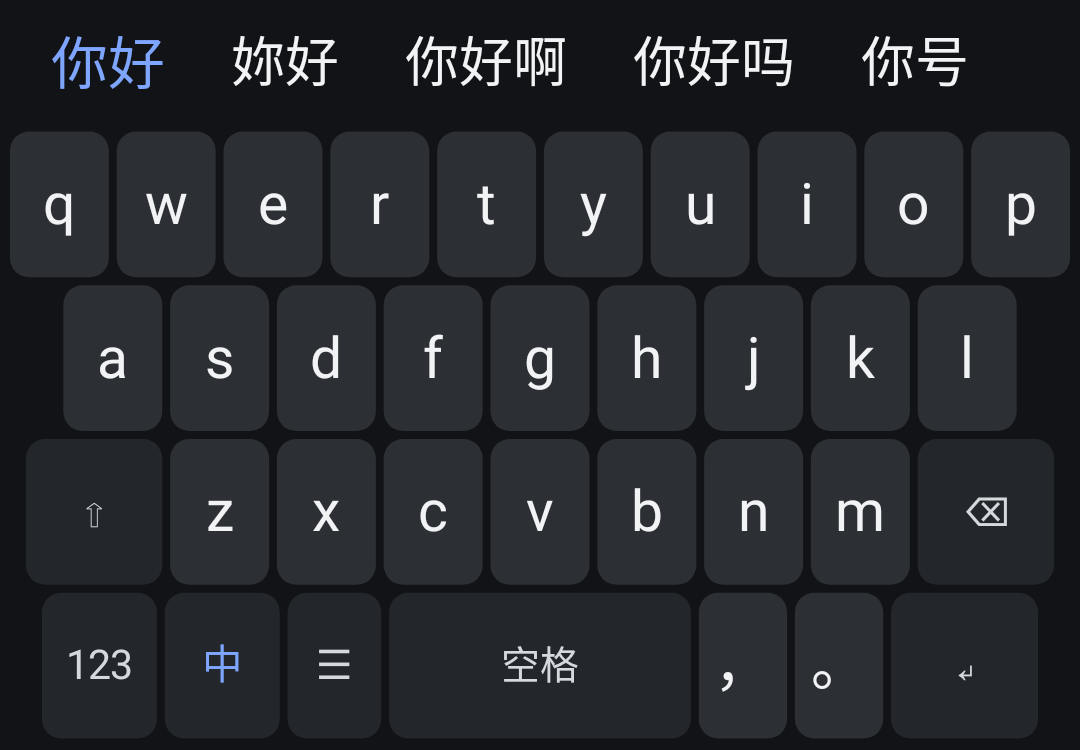
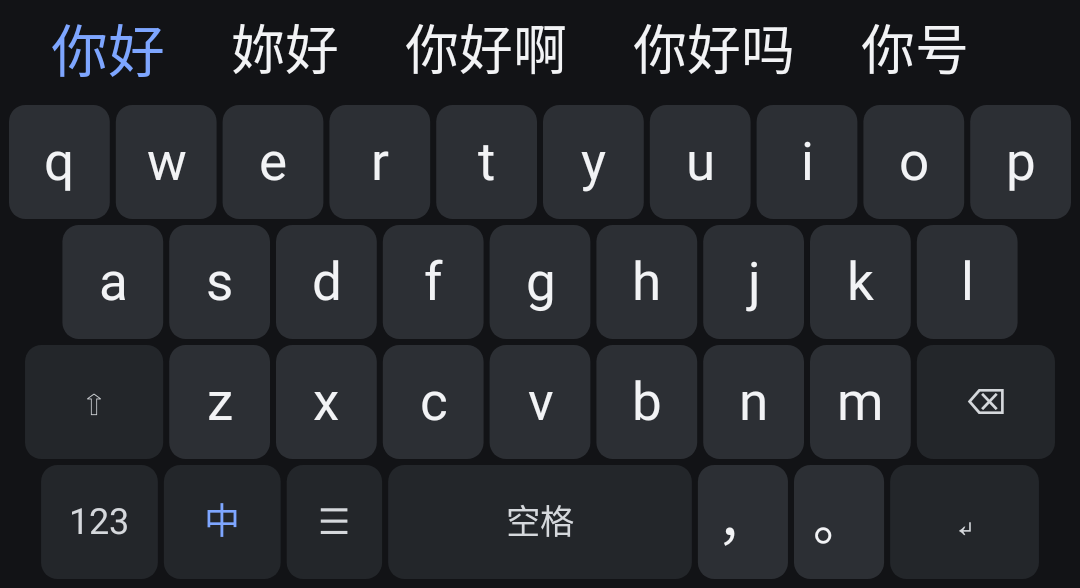
fix: inset-aware compact layout, no clipped bottom row (2.1)
Default height 232→196 dp, candidate strip 40→32 dp, tighter gaps and
glyphs, bottom row padded by the navigation-bar inset, height clamped to
the window and to 45% of the screen.

diff --git a/app/src/main/java/com/example/chinesecompactkeyboard/input/ChineseKeyboardService.kt b/app/src/main/java/com/example/chinesecompactkeyboard/input/ChineseKeyboardService.kt
@@ -11,6 +11,7 @@ import android.os.Looper
 import android.view.KeyEvent
 import android.view.View
 import android.view.View.MeasureSpec
+import android.view.WindowInsets
 import android.view.inputmethod.EditorInfo
 import android.view.inputmethod.InputConnection
 import android.widget.LinearLayout
@@ -125,7 +126,7 @@ class ChineseKeyboardService : InputMethodService(),
         }
         root!!.addView(
             candidateBar,
-            LinearLayout.LayoutParams(LinearLayout.LayoutParams.MATCH_PARENT, dp(40f))
+            LinearLayout.LayoutParams(LinearLayout.LayoutParams.MATCH_PARENT, dp(CANDIDATE_BAR_DP))
         )
 
         keyboardView = KeyboardView(this).apply {
@@ -149,6 +150,11 @@ class ChineseKeyboardService : InputMethodService(),
 
     private fun dp(value: Float): Int = (value * resources.displayMetrics.density).toInt()
 
+    private companion object {
+        /** Candidate strip height; kept tight so the keyboard stays compact. */
+        const val CANDIDATE_BAR_DP = 32f
+    }
+
     /**
      * The input view always measures itself at exactly the height chosen in
      * settings, whatever measure spec the window manager hands down. Without
@@ -156,8 +162,33 @@ class ChineseKeyboardService : InputMethodService(),
      * measure the IME with an unspecified spec.
      */
     private inner class ImeRoot(context: Context) : LinearLayout(context) {
+
+        init {
+            if (Build.VERSION.SDK_INT >= Build.VERSION_CODES.R) {
+                setOnApplyWindowInsetsListener { view, insets ->
+                    // Gesture navigation draws over the IME window on many devices;
+                    // pad the bottom so the last key row is never clipped.
+                    val bars = insets.getInsets(
+                        WindowInsets.Type.navigationBars() or WindowInsets.Type.systemGestures()
+                    )
+                    if (view.paddingBottom != bars.bottom) {
+                        view.setPadding(0, 0, 0, bars.bottom)
+                        view.requestLayout()
+                    }
+                    insets
+                }
+            }
+        }
+
         override fun onMeasure(widthMeasureSpec: Int, heightMeasureSpec: Int) {
-            val height = dp(prefs.keyboardHeightDp.toFloat())
+            val mode = MeasureSpec.getMode(heightMeasureSpec)
+            val available = MeasureSpec.getSize(heightMeasureSpec)
+            val screenCap = (resources.displayMetrics.heightPixels * 0.45f).toInt()
+            var height = dp(prefs.keyboardHeightDp.toFloat())
+            height = minOf(height, screenCap)
+            if (mode != MeasureSpec.UNSPECIFIED && available > 0) {
+                height = minOf(height, available)
+            }
             super.onMeasure(
                 widthMeasureSpec,
                 MeasureSpec.makeMeasureSpec(height, MeasureSpec.EXACTLY)
@@ -170,8 +201,8 @@ class ChineseKeyboardService : InputMethodService(),
         r.requestLayout()
         candidateBar?.visibility = if (prefs.candidateBarVisible) View.VISIBLE else View.GONE
         val barParams = candidateBar?.layoutParams
-        if (barParams != null && barParams.height != dp(40f)) {
-            barParams.height = dp(40f)
+        if (barParams != null && barParams.height != dp(CANDIDATE_BAR_DP)) {
+            barParams.height = dp(CANDIDATE_BAR_DP)
             candidateBar?.layoutParams = barParams
         }
         keyboardView?.requestLayout()

diff --git a/app/src/main/java/com/example/chinesecompactkeyboard/input/KeyboardView.kt b/app/src/main/java/com/example/chinesecompactkeyboard/input/KeyboardView.kt
@@ -130,9 +130,9 @@ class KeyboardView(context: Context) : View(context) {
         placed.clear()
         if (width == 0 || height == 0) return
         val rows = currentRows()
-        val gap = dp(2.6f)
+        val gap = dp(2.0f)
         val horizontalPadding = dp(2f)
-        val verticalPadding = dp(2.5f)
+        val verticalPadding = dp(2.0f)
         val usableWidth = width - horizontalPadding * 2
         val usableHeight = height - verticalPadding * 2
         val unit = usableWidth / 10f
@@ -162,8 +162,8 @@ class KeyboardView(context: Context) : View(context) {
     override fun onDraw(canvas: Canvas) {
         val now = SystemClock.uptimeMillis()
         var needsAnimation = false
-        val radius = dp(6.5f) * (0.9f + 0.1f * keyScale)
-        textPaint.textSize = dp(19f) * keyScale
+        val radius = dp(5.5f) * (0.9f + 0.1f * keyScale)
+        textPaint.textSize = dp(17.5f) * keyScale
         textPaint.typeface = Typeface.create("sans-serif", Typeface.NORMAL)
 
         for (index in placed.indices) {
@@ -210,9 +210,9 @@ class KeyboardView(context: Context) : View(context) {
             }
             val label = key.spec.label
             val size = when (key.spec.kind) {
-                KeyKind.CHAR -> dp(19f) * keyScale
-                KeyKind.SPACE -> dp(13f) * keyScale
-                else -> dp(13.5f) * keyScale
+                KeyKind.CHAR -> dp(17.5f) * keyScale
+                KeyKind.SPACE -> dp(11.5f) * keyScale
+                else -> dp(12f) * keyScale
             }
             textPaint.textSize = size
             val metrics = textPaint.fontMetrics

diff --git a/app/src/main/java/com/example/chinesecompactkeyboard/input/ClipboardPanelView.kt b/app/src/main/java/com/example/chinesecompactkeyboard/input/ClipboardPanelView.kt
@@ -38,7 +38,7 @@ class ClipboardPanelView(context: Context) : LinearLayout(context) {
         orientation = VERTICAL
         header.orientation = HORIZONTAL
         header.gravity = Gravity.CENTER_VERTICAL
-        addView(header, LayoutParams(LayoutParams.MATCH_PARENT, dp(40f).toInt()))
+        addView(header, LayoutParams(LayoutParams.MATCH_PARENT, dp(36f).toInt()))
         scroll.isVerticalScrollBarEnabled = true
         listContainer.orientation = VERTICAL
         scroll.addView(listContainer, LayoutParams(LayoutParams.MATCH_PARENT, LayoutParams.WRAP_CONTENT))

diff --git a/app/src/test/java/com/example/chinesecompactkeyboard/AppSmokeTest.kt b/app/src/test/java/com/example/chinesecompactkeyboard/AppSmokeTest.kt
@@ -60,8 +60,9 @@ class AppSmokeTest {
             View.MeasureSpec.makeMeasureSpec(1080, View.MeasureSpec.EXACTLY),
             View.MeasureSpec.makeMeasureSpec(0, View.MeasureSpec.UNSPECIFIED)
         )
-        val expected = (240 * context.resources.displayMetrics.density).toInt()
-        assertEquals(expected, view.measuredHeight)
+        val wanted = (240 * context.resources.displayMetrics.density).toInt()
+        val cap = (context.resources.displayMetrics.heightPixels * 0.45f).toInt()
+        assertEquals(minOf(wanted, cap), view.measuredHeight)
     }
 
 }

diff --git a/app/src/main/java/com/example/chinesecompactkeyboard/core/Prefs.kt b/app/src/main/java/com/example/chinesecompactkeyboard/core/Prefs.kt
@@ -80,9 +80,9 @@ class Prefs private constructor(context: Context) {
         const val THEME_LIGHT = "light"
         const val THEME_DARK = "dark"
 
-        const val MIN_HEIGHT_DP = 170
-        const val MAX_HEIGHT_DP = 340
-        const val DEFAULT_HEIGHT_DP = 232
+        const val MIN_HEIGHT_DP = 150
+        const val MAX_HEIGHT_DP = 300
+        const val DEFAULT_HEIGHT_DP = 196
         const val MIN_SCALE = 85
         const val MAX_SCALE = 125
         const val CLIPBOARD_LIMIT = 100

diff --git a/app/src/test/java/com/example/chinesecompactkeyboard/ScreenshotTest.kt b/app/src/test/java/com/example/chinesecompactkeyboard/ScreenshotTest.kt
@@ -63,7 +63,7 @@ class ScreenshotTest {
         val context = ApplicationProvider.getApplicationContext<Context>()
         val prefs = Prefs.get(context)
         prefs.theme = if (dark) Prefs.THEME_DARK else Prefs.THEME_LIGHT
-        prefs.keyboardHeightDp = 250
+        prefs.keyboardHeightDp = Prefs.DEFAULT_HEIGHT_DP
         prefs.chineseMode = true
 
         val service = Robolectric.buildService(ChineseKeyboardService::class.java).create().get()

diff --git a/README.md b/README.md
@@ -48,10 +48,10 @@ settings, and the 中/EN key switches between Chinese and English.
 | Pinyin input | Tone-independent, offline, 190 k words + 29 k characters, syllable segmentation with alternative readings (`xian` → 先 / 西安), prefix typing (`nih` → 你好), word-level sentence composition (`jintiantianqihenhao` → 今天天气很好) |
 | Candidates | Weighted by corpus frequency, then re-ranked by the user's own word and word-pair statistics; the strip scrolls, first candidate is accented |
 | Simplified / Traditional | Real conversion from the OpenCC phrase + character tables (53 k entries, Taiwan-standard glyphs). The 中 key mode decides what is inserted, not just the label |
-| Compact UI | Single canvas-drawn view, 35 keys, 2.6 dp gaps, 170–340 dp height, key press scale animation, key preview popup, no relayout while typing |
+| Compact UI | Single canvas-drawn view, 35 keys, 2 dp gaps, 32 dp candidate strip, 150–300 dp total height (default 196 dp, capped at 45 % of the screen), gesture-bar aware so the last row is never clipped, press animation, key preview, no relayout while typing |
 | Clipboard | Room database, newest first, 100 entries max, tap to paste, copy button, per-entry delete, clear all, Chinese text preserved |
 | Themes | White (light grey keys, dark text) and Dark (dark surface, grey keys, white text) plus *follow system*, switchable live from settings |
-| Settings | Height, key size, key sound, vibration + strength, pinyin suggestions, candidate bar visibility, default Traditional, clipboard capture, clipboard manager, reset learning |
+| Settings | Keyboard height, key size, key sound, vibration + strength, pinyin suggestions, candidate bar visibility, default Traditional, clipboard capture, clipboard manager, reset learning |
 | Compatibility | `minSdk 29` (Android 10), `targetSdk 35`, native `InputMethodService`, `setComposingText`-based composition, correct `onStartInputView` / `onFinishInputView` lifecycle, editor actions on ↵ |
 
 Keyboard layout (letters):

diff --git a/CHANGELOG.md b/CHANGELOG.md
@@ -1,5 +1,20 @@
 # Changelog
 
+## 2.1 — compact layout fixes
+
+* **Fixed the bottom row being clipped.** The IME view now honours window insets:
+  gesture-navigation devices pad the bottom by the navigation-bar inset, so the
+  `↵` key is no longer cut off by the gesture handle. The measured height is also
+  clamped to the height the window actually offers (and to 45 % of the screen),
+  instead of always claiming the configured height and getting clipped.
+* **Actually compact.** Default height 232 → **196 dp**, range 340 → **300 dp**
+  (minimum 150), candidate strip 40 → **32 dp**, key gaps 2.6 → **2 dp**, key
+  corner radius 6.5 → 5.5 dp, letter glyphs 19 → 17.5 dp, function glyphs
+  13.5 → 12 dp. The keyboard now occupies ~22 % of a 891 dp screen instead of ~31 %.
+* Clipboard panel header trimmed to 36 dp to match.
+* Settings slider range updated to the new 150–300 dp bounds.
+* `versionCode 3`, `versionName 2.1`; screenshots re-rendered at the new default.
+
 ## 2.0 — full rebuild of the starter project
 
 The starter contained three files: a 28-entry hardcoded `mapOf` dictionary, a
